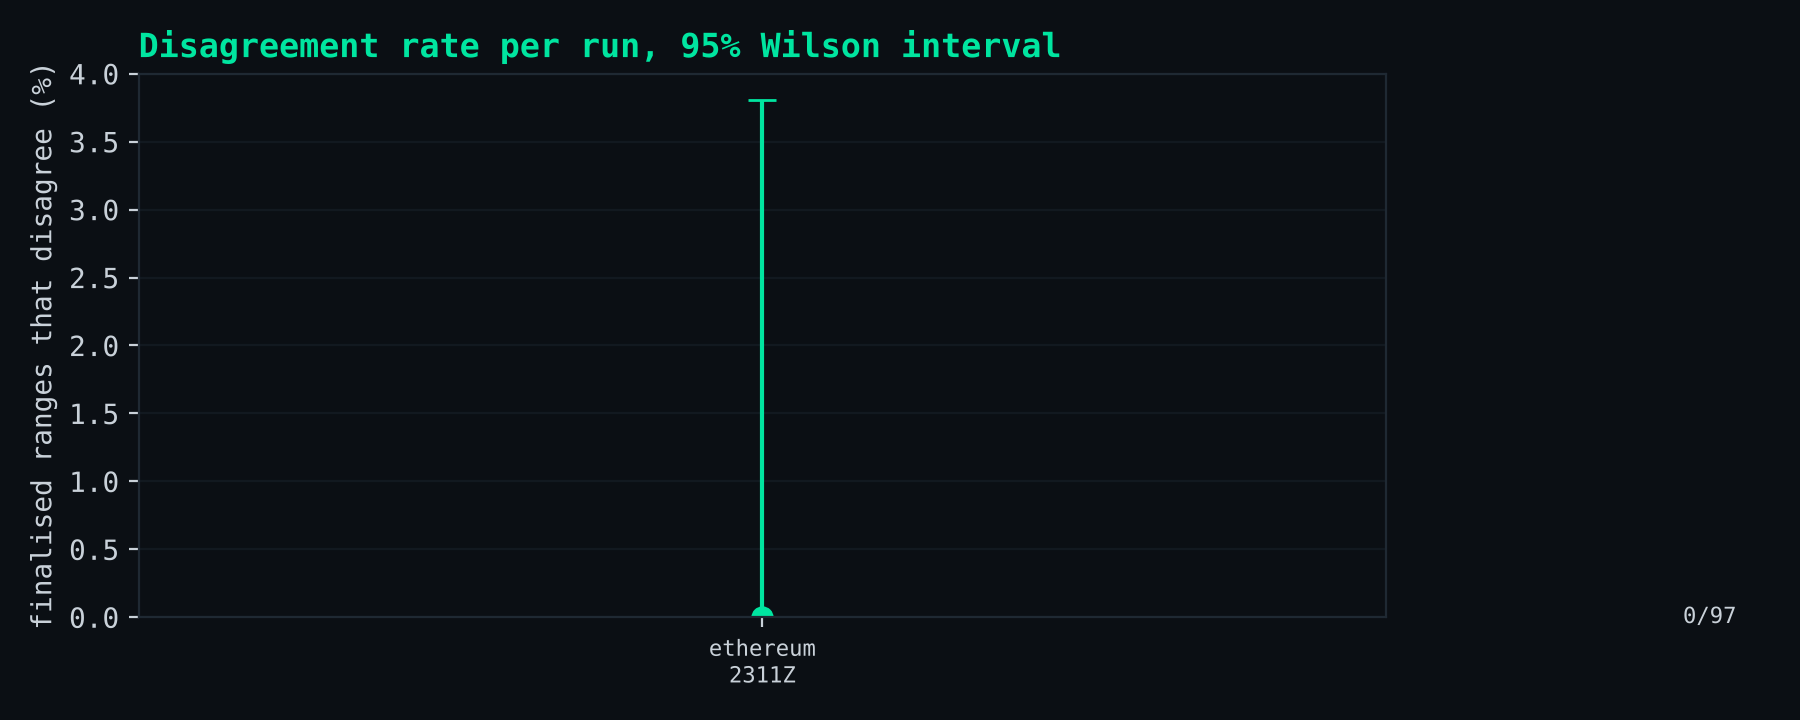
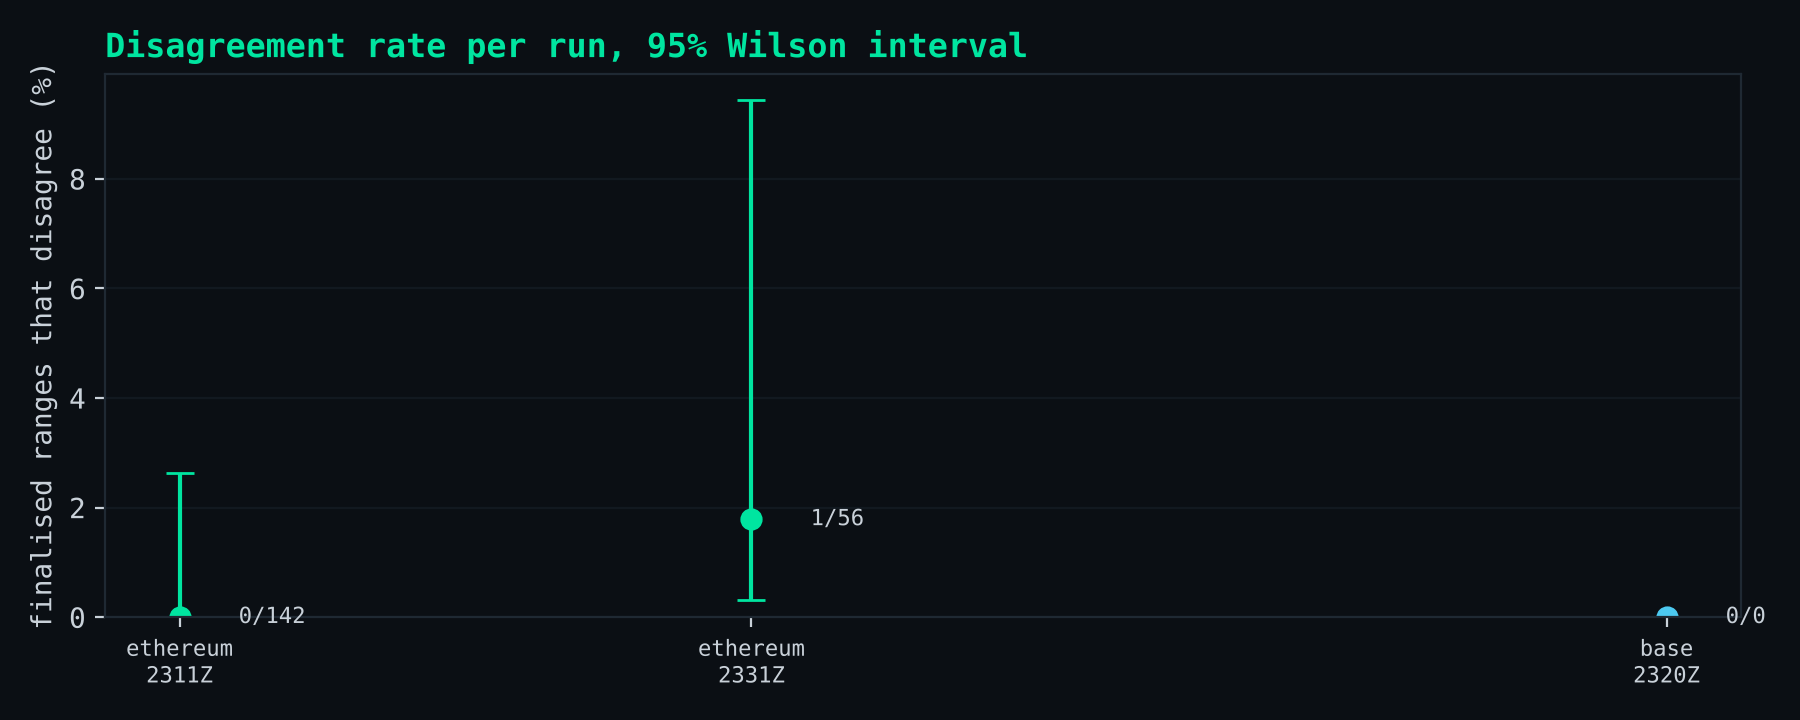
Report: separate recent and deep-history strata

diff --git a/src/chain_evidence/report.py b/src/chain_evidence/report.py
@@ -77,6 +77,14 @@ def logs_stats(data, chain):
         for prov, e in json.loads(r["errors"]).items():
             err_text[prov][e[:90]] += 1
     out["error_messages"] = {k: v.most_common(6) for k, v in err_text.items()}
+    for kind in ("final", "final_deep"):
+        c = [r for r in comp if r["kind"] == kind]
+        k = [r for r in c if r["agree"] == "False"]
+        p_, lo_, hi_ = wilson(len(k), len(c))
+        out[kind] = {"ranges": sum(1 for r in final if r["kind"] == kind), "comparable": len(c),
+                     "disagreements": len(k), "rate": p_, "ci": [lo_, hi_],
+                     "missing_logs": sum(sum(v[1] for v in json.loads(r["per_provider"]).values()) for r in k),
+                     "empty_success": sum(1 for r in k if r["empty_success"])}
     per_run = []
     for run in out["runs"]:
         c = [r for r in comp if r["run_id"] == run]
@@ -243,9 +251,12 @@ def main():
     table = ["| Chain | Ranges checked | Comparable (≥2 answers) | Disagreements | Missing logs | Not finalised (checked separately) |",
              "|---|---|---|---|---|---|"]
     for s in stats:
-        table.append(f"| {s['chain']} | {s['ranges']} | {s['comparable']} | {s['disagreements']} "
-                     f"({100 * s['rate']:.1f}%, 95% CI {100 * s['ci'][0]:.1f}–{100 * s['ci'][1]:.1f}%) | "
-                     f"{s['missing_logs']} | {s['near_head']} ({s['near_head_disagree']} disagreed) |")
+        for kind, label in (("final", "recent"), ("final_deep", "deep history")):
+            k = s[kind]
+            table.append(f"| {s['chain']} ({label}) | {k['ranges']} | {k['comparable']} | {k['disagreements']} "
+                         f"({100 * k['rate']:.1f}%, 95% CI {100 * k['ci'][0]:.1f}–{100 * k['ci'][1]:.1f}%) | "
+                         f"{k['missing_logs']} | {s['near_head'] if kind == 'final' else '—'}"
+                         f"{' (' + str(s['near_head_disagree']) + ' disagreed)' if kind == 'final' else ''} |")
     rt = ["| Provider | Blocks proven | Header hash | transactionsRoot | receiptsRoot | eth_getLogs vs proven receipts | Not checked |",
           "|---|---|---|---|---|---|---|"]
     for k, v in sorted(rs.items()):

diff --git a/results/summary.md b/results/summary.md
@@ -1,6 +1,15 @@
 | Chain | Ranges checked | Comparable (≥2 answers) | Disagreements | Missing logs | Not finalised (checked separately) |
 |---|---|---|---|---|---|
-| ethereum | 136 | 97 | 0 (0.0%, 95% CI 0.0–3.8%) | 0 | 0 (0 disagreed) |
+| ethereum (recent) | 190 | 190 | 0 (0.0%, 95% CI 0.0–2.0%) | 0 | 30 (0 disagreed) |
+| ethereum (deep history) | 71 | 8 | 1 (12.5%, 95% CI 2.2–47.1%) | 6 | — |
+| base (recent) | 3 | 0 | 0 (0.0%, 95% CI 0.0–0.0%) | 0 | 0 (0 disagreed) |
+| base (deep history) | 2 | 0 | 0 (0.0%, 95% CI 0.0–0.0%) | 0 | — |
 
 | Provider | Blocks proven | Header hash | transactionsRoot | receiptsRoot | eth_getLogs vs proven receipts | Not checked |
 |---|---|---|---|---|---|---|
+| base/1rpc | 0 | 0/0 | 0/0 | 0/0 | n/a | 14 |
+| base/base-official | 14 | 14/14 | 14/14 | 14/14 | n/a | 0 |
+| base/publicnode | 14 | 14/14 | 14/14 | 14/14 | 14/14 match | 0 |
+| ethereum/1rpc | 0 | 0/0 | 0/0 | 0/0 | n/a | 20 |
+| ethereum/drpc | 20 | 20/20 | 20/20 | 20/20 | 20/20 match | 0 |
+| ethereum/publicnode | 20 | 20/20 | 20/20 | 15/20 | 3/3 match | 0 |
